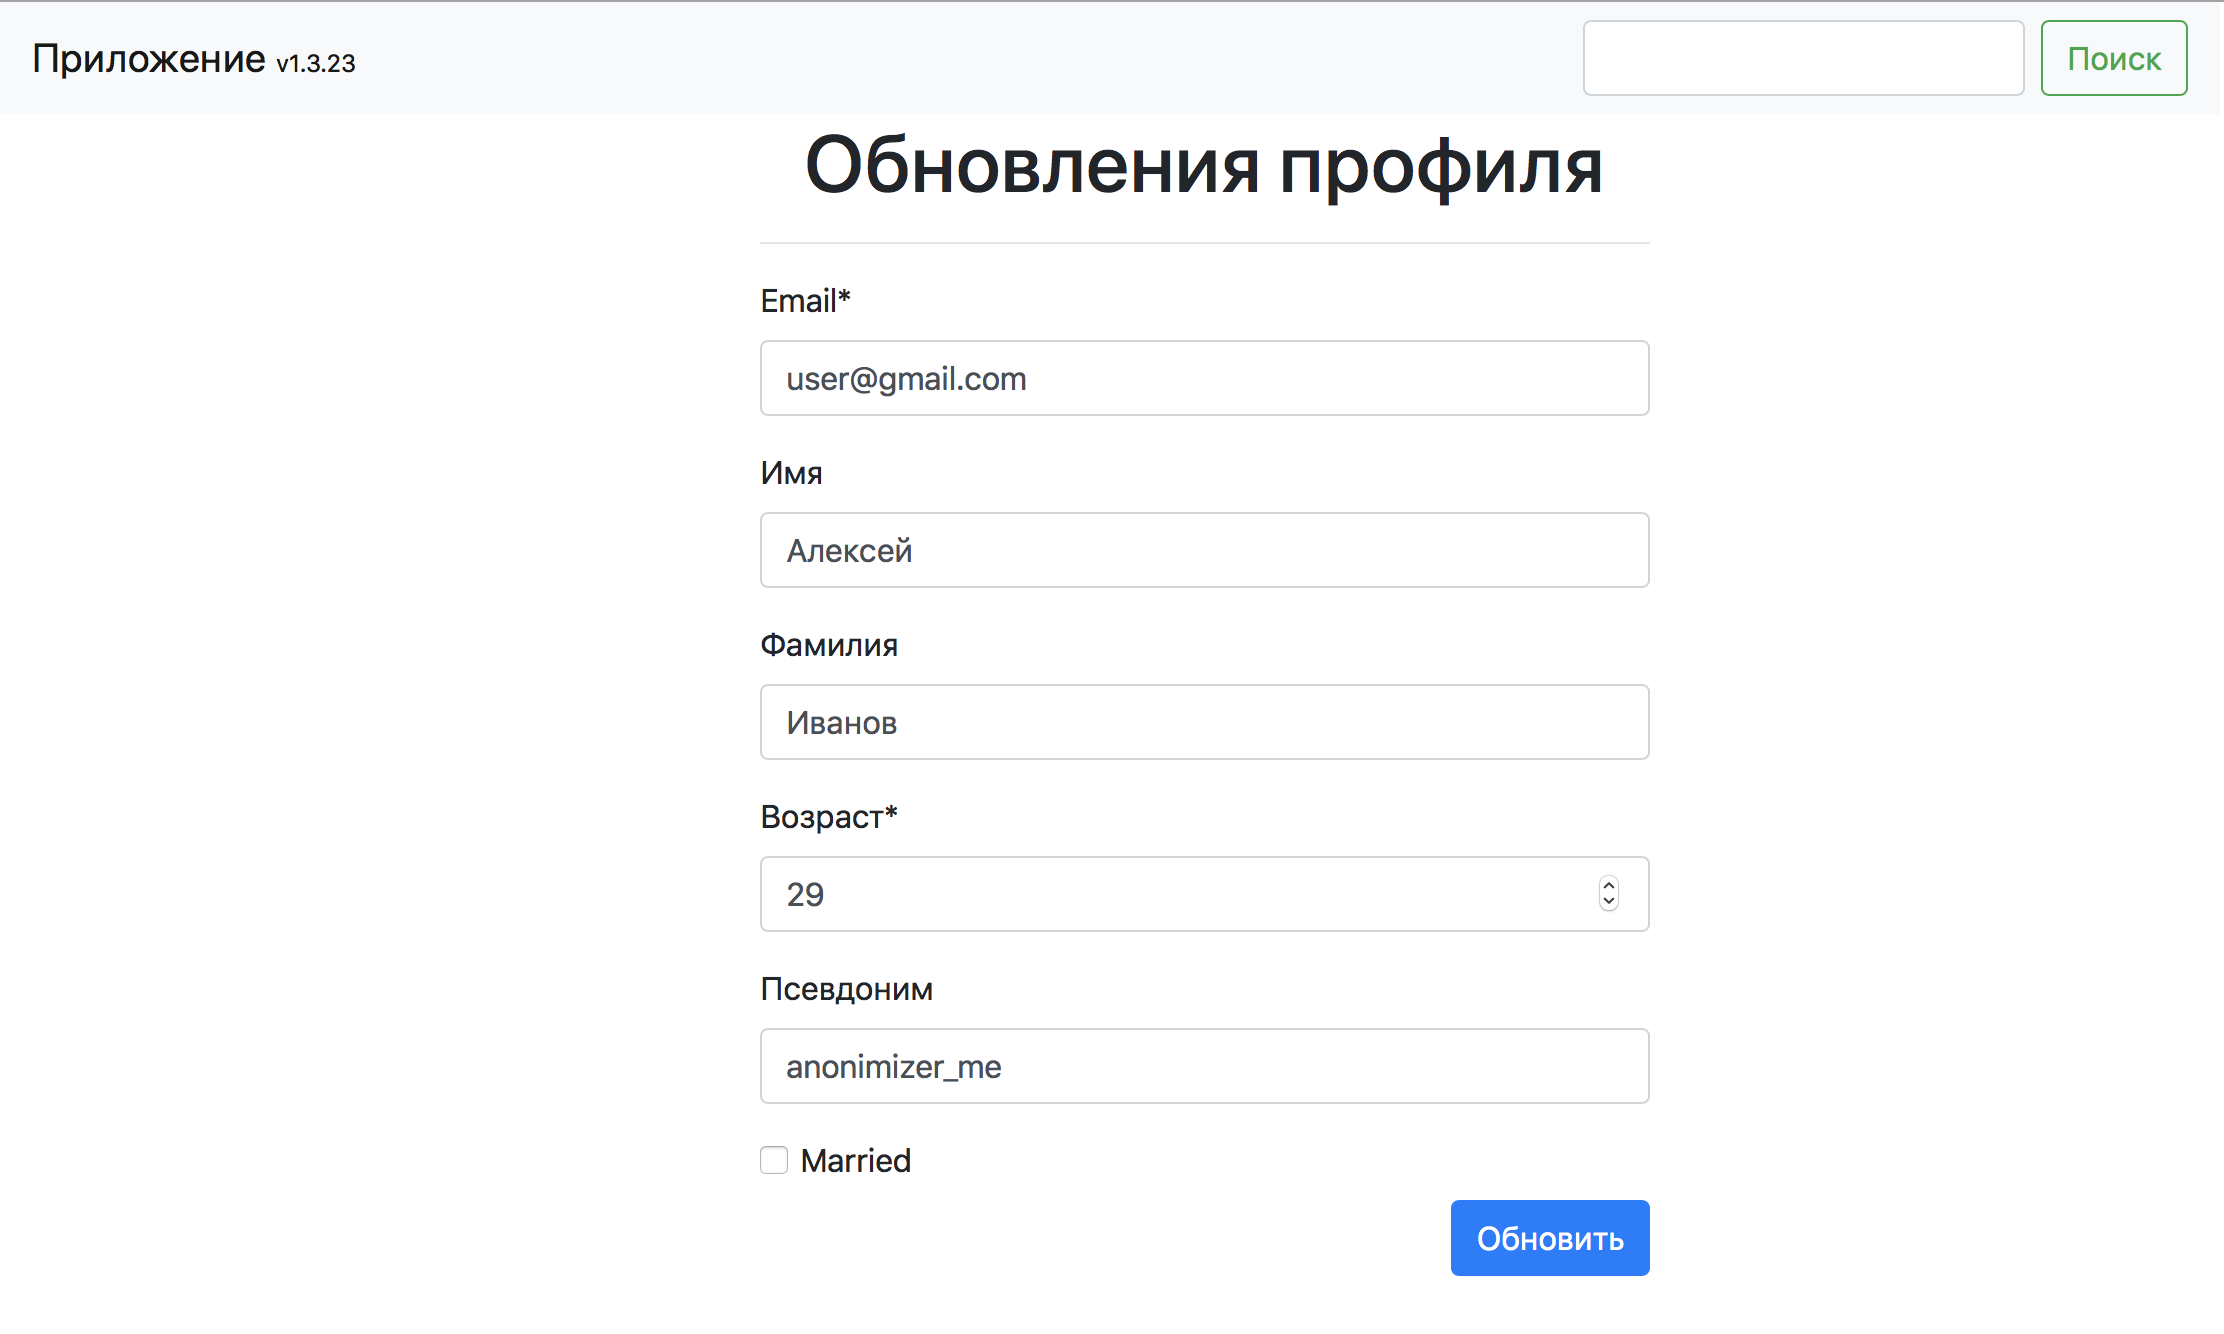
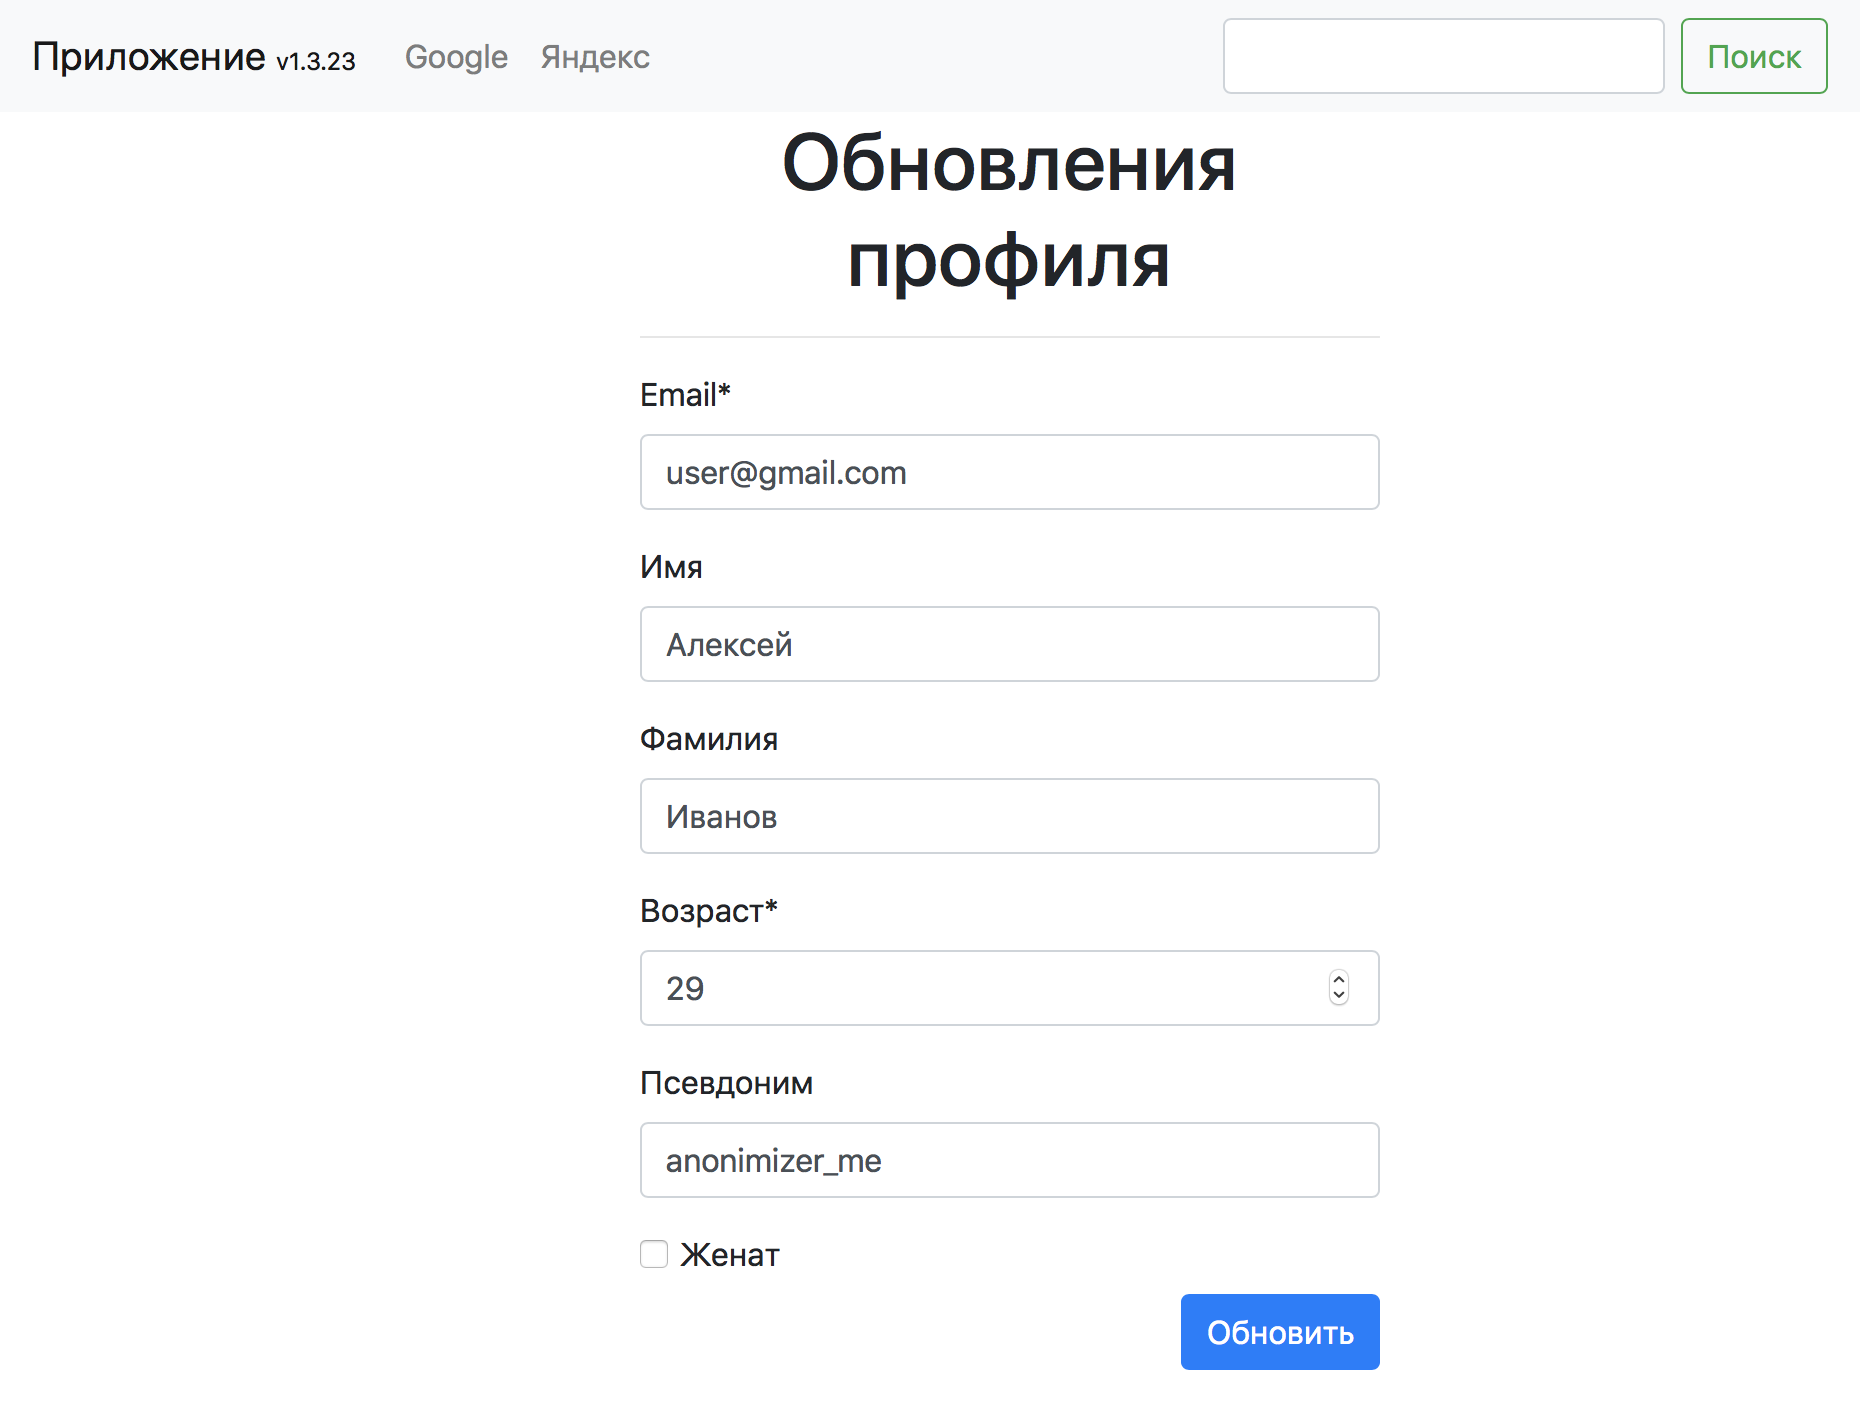
update

diff --git a/fix-issue/js/Form.js b/fix-issue/js/Form.js
@@ -34,7 +34,7 @@ const Form = (props) => {
         <div className="form-check">
           <input type="checkbox" className="form-check-input" id="isMarried" name="is_married"
                  onChange={props.handleChange} checked={props.is_married}/>
-          <label className="form-check-label" htmlFor="isMarried">Married</label>
+          <label className="form-check-label" htmlFor="isMarried">Женат</label>
         </div>
         <button type="submit" className="btn btn-primary mt-2 float-right">Обновить</button>
       </form>
